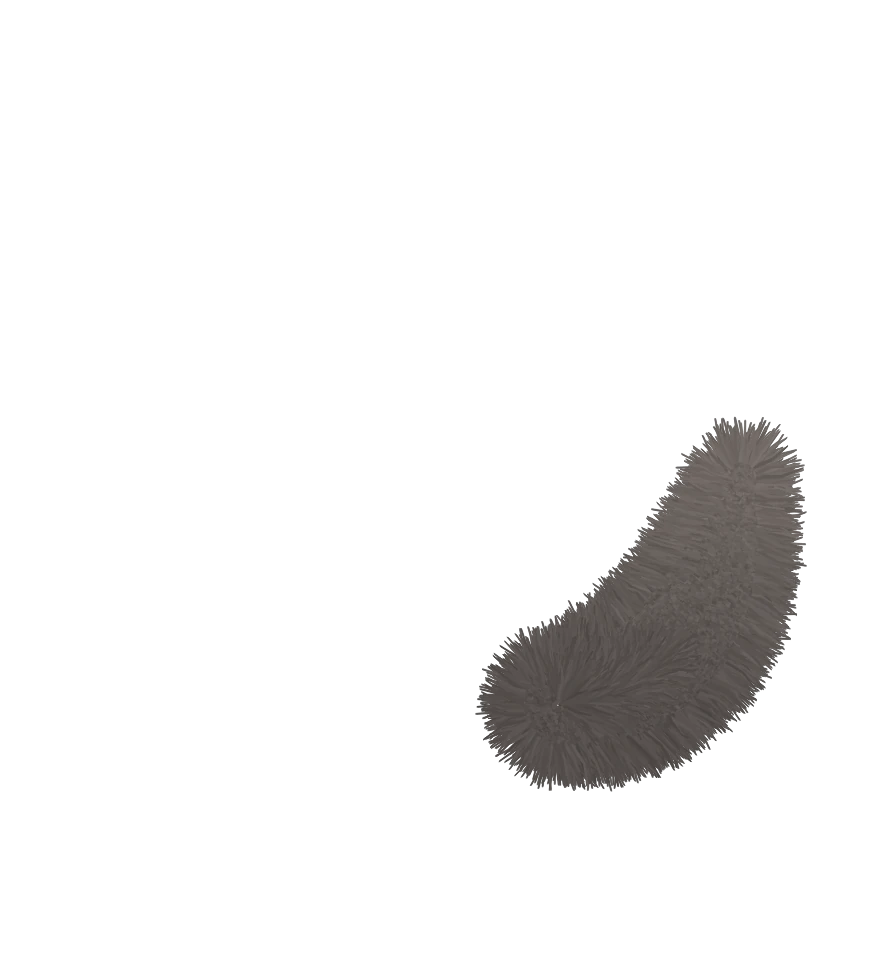
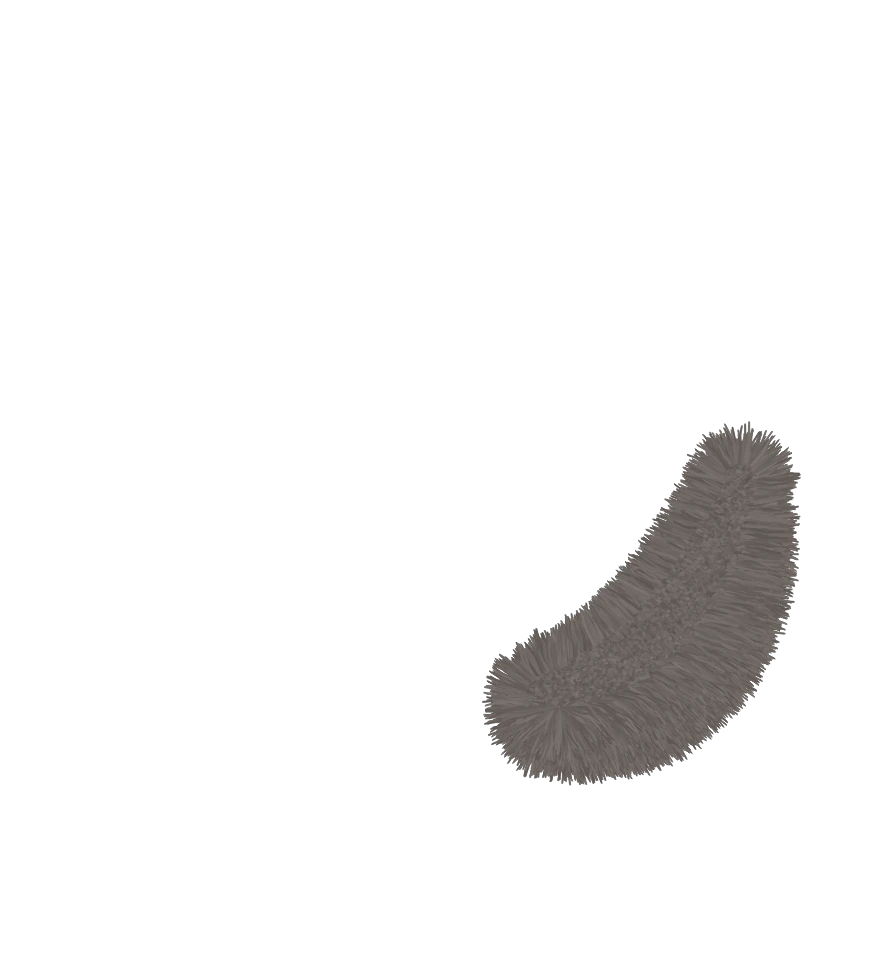
Playground: Ana keeps her real face, ears and markings; fur strokes follow the fur direction read from the photo
Claude-Session: https://claude.ai/code/session_01W4x6f7KtFbhsBZfqVxHVQA

diff --git a/william/tpl.html b/william/tpl.html
@@ -715,7 +715,7 @@ XMLHttpRequest.prototype.open = function (m, url, ...rest) { for (const k in MOC
 // 絵の座標（890×980）：足もと (370, 885)、首 (360, 440)、しっぽのつけ根 (560, 705)、目 (312, 306) (414, 308)、口 (360, 390)
 // 性格は食いしん坊：正解すると ごはんがもらえて もぐもぐ。空のときは ときどき ぺろっ、「ごはん まだ？」
 const ANA = { img: {}, n: 0, blinkAt: 0, lookT: -1e9, lickT: -1e9, nextLick: 0, eatT: -1e9, food: 0, taps: 0, wantT: -1e9, nextWant: 0 };
-if (PLAYGROUND) for (const [k, src] of Object.entries(__ANA__)) { const im = new Image(); im.onload = () => { ANA.img[k] = im; if (++ANA.n === 4) { ANA.blinkAt = performance.now() + 3000; ANA.nextLick = performance.now() + 12000; } }; im.src = src; }
+if (PLAYGROUND) for (const [k, src] of Object.entries(__ANA__)) { const im = new Image(); im.onload = () => { ANA.img[k] = im; if (++ANA.n === 3) { ANA.blinkAt = performance.now() + 3000; ANA.nextLick = performance.now() + 12000; } }; im.src = src; }
 function anaFeed() { if (!PLAYGROUND) return; const t = performance.now(); if (t - ANA.eatT < 5200) { ANA.food = 1; return; } ANA.food = 1; ANA.eatT = t + 700; ANA.lookT = t; }
 function anaSpot() {
 	if (stacked) { const p = IMG_PL.top, q = M(p.x + 70, p.y); return { x: q.x, y: q.y }; }  // スマホ：同じ台の右どなり
@@ -723,8 +723,8 @@ function anaSpot() {
 }
 function anaH() { return catH * (stacked ? 1.0 : 1.2); }
 function drawAna(t) {
-	if (ANA.n < 4) return; const I = ANA.img, c = ctx, sp = anaSpot(), h = anaH(), k = h / 790;
-	let lid = 0.08, mouth = 0, up = 0, dip = 0, lick = 0;
+	if (ANA.n < 3) return; const I = ANA.img, c = ctx, sp = anaSpot(), h = anaH(), k = h / 790;
+	let lid = 0, mouth = 0, up = 0, dip = 0, lick = 0;
 	const bk = (t - ANA.blinkAt) / 240; if (bk >= 0 && bk < 1) lid = Math.max(lid, Math.sin(bk * Math.PI)); else if (bk >= 1) ANA.blinkAt = t + 3000 + Math.random() * 4000;
 	const lk = (t - ANA.lookT) / 1600; if (lk >= 0 && lk < 1) { up = Math.sin(lk * Math.PI); lid *= 1 - up; }
 	const ek = (t - ANA.eatT) / 4500;
@@ -743,27 +743,16 @@ function drawAna(t) {
 	c.save(); c.translate(370, 885); c.scale(1 + br * 0.006, 1 + br * 0.01 - dip * 0.03); c.drawImage(I.body, -370, -885); c.restore();
 	// 頭（首を中心に かたむく・上を向く・おさらへ下げる）
 	c.save(); c.translate(360 - dip * 40, 440 - br * 3 - up * 10 + dip * 70 + chew * 5); c.rotate(sway * 0.035 - dip * 0.22); c.scale(1, 1 + up * 0.02); c.translate(-360, -440);
-	// 耳（頭のうしろ。つけ根を中心に ときどき ぴくっ。ごはん？のときは 立てる、食べるときは 少し寝かせる）
-	{ const tw = (t % 6100) / 260, a1 = tw < 1 ? Math.sin(tw * Math.PI) : 0, tw2 = ((t + 2700) % 8300) / 260, a2 = tw2 < 1 ? Math.sin(tw2 * Math.PI) : 0;
-	  for (const [sx, px, py, tw3] of [[-1, 275, 245, a1], [1, 448, 245, a2]]) { c.save(); c.translate(px, py); c.rotate(sx * (tw3 * 0.16 + dip * 0.12 - up * 0.06)); c.translate(-px, -py); c.beginPath(); c.rect(sx < 0 ? -200 : 360, -200, 560, 1180); c.clip(); c.drawImage(I.ears, sx * 6, -44); c.restore(); } }  /* 耳は 頭の毛の上に しっかり出す */
 	c.drawImage(I.head, 0, 0);
-	// 目：デザインした目（アーモンド形で 外がわが少し上がる。こはく色〜黄みどり、たて長のひとみ、ハイライト）。まぶたが上から下りる
-	for (const [sx, ex, ey] of [[-1, 311, 306], [1, 413, 308]]) {
-		c.save(); c.translate(ex, ey); c.rotate(sx * -0.05);
-		const shape = () => { c.beginPath(); c.moveTo(-sx * 30, 2); c.bezierCurveTo(-sx * 22, -26, sx * 16, -30, sx * 30, -4); c.bezierCurveTo(sx * 22, 24, -sx * 14, 26, -sx * 30, 2); c.closePath(); };  /* まるみのある アーモンド形 */
-		shape(); c.lineWidth = 5; c.strokeStyle = '#3a302b'; c.lineJoin = 'round'; c.stroke(); c.save(); c.clip();
-		const g = c.createRadialGradient(0, 0, 3, 0, 0, 30); g.addColorStop(0, '#b9c463'); g.addColorStop(0.45, '#d8b548'); g.addColorStop(1, '#a9761f'); c.fillStyle = g; c.fillRect(-34, -32, 68, 64);
-		c.fillStyle = '#17120f'; c.beginPath(); c.ellipse(0, -2, 11 + up * 3, 18, 0, 0, Math.PI * 2); c.fill();
-		c.fillStyle = 'rgba(255,255,255,.92)'; c.beginPath(); c.arc(-6, -8, 4.2, 0, Math.PI * 2); c.fill(); c.beginPath(); c.arc(6, 7, 1.8, 0, Math.PI * 2); c.fill();
-		const ly = -30 + lid * 58; c.fillStyle = '#efecea'; c.fillRect(-34, -30, 68, ly + 30); c.strokeStyle = '#3a302b'; c.lineWidth = 3; c.beginPath(); c.moveTo(-34, ly - 2); c.quadraticCurveTo(0, ly + 4, 34, ly - 2); c.stroke();
-		c.restore();
-		c.strokeStyle = '#3a302b'; c.lineWidth = 3.4; c.lineCap = 'round'; c.beginPath(); c.moveTo(-sx * 30, 2); c.bezierCurveTo(-sx * 22, -26, sx * 16, -30, sx * 30, -4); c.stroke();  // 上まぶたの線は 少し太く
-		c.restore();
+	// 目は 絵（写真の形）のまま。まばたきは まぶたを上から下ろす（まわりの毛の色）
+	if (lid > 0.03) for (const [ex, ey] of [[312, 306], [414, 308]]) {
+		c.save(); c.translate(ex, ey); c.beginPath(); c.ellipse(0, 0, 27, 21, 0, 0, Math.PI * 2); c.clip();
+		const ly = -21 + lid * 42; c.fillStyle = '#e6e2de'; c.fillRect(-28, -22, 56, ly + 22); c.strokeStyle = '#6a5f58'; c.lineWidth = 2.2; c.beginPath(); c.moveTo(-28, ly - 3); c.quadraticCurveTo(0, ly + 4, 28, ly - 3); c.stroke(); c.restore();
 	}
 	if (mouth > 0.08) { c.fillStyle = '#8a3a48'; c.beginPath(); c.ellipse(360, 396 + mouth * 5, 9 + mouth * 4, 2 + mouth * 9, 0, 0, Math.PI * 2); c.fill(); c.fillStyle = '#ee9aa6'; c.beginPath(); c.ellipse(360, 400 + mouth * 9, 6, 1 + mouth * 4, 0, 0, Math.PI * 2); c.fill(); }
 	else if (lick > 0.05) { c.fillStyle = '#ee9aa6'; c.strokeStyle = '#d27a88'; c.lineWidth = 1; c.beginPath(); c.moveTo(353, 392); c.quadraticCurveTo(351, 392 + lick * 16, 360, 393 + lick * 18); c.quadraticCurveTo(369, 392 + lick * 16, 367, 392); c.closePath(); c.fill(); c.stroke(); }
 	// ひげ
-	c.strokeStyle = 'rgba(255,255,255,.85)'; c.lineWidth = 1.3; c.lineCap = 'round';
+	c.strokeStyle = 'rgba(255,255,255,.8)'; c.lineWidth = 1.1; c.lineCap = 'round';
 	for (const sx of [-1, 1]) for (let i = 0; i < 4; i++) { c.beginPath(); c.moveTo(360 + sx * 36, 372 + i * 5); c.quadraticCurveTo(360 + sx * 120, 362 + i * 12, 360 + sx * (205 + i * 6), 352 + i * 24); c.stroke(); }
 	c.restore();
 	// ごはんのおさら（体の左まえ）
@@ -775,7 +764,7 @@ function drawAna(t) {
 	const wk = (t - ANA.wantT) / 3200; if (wk >= 0 && wk < 1) { const a = Math.min(1, wk * 6, (1 - wk) * 6); c.globalAlpha = a; c.fillStyle = 'rgba(255,255,255,.95)'; c.strokeStyle = '#2b2522'; c.lineWidth = 4; const bx = 470, by = 70; c.beginPath(); c.ellipse(bx, by, 150, 50, 0, 0, Math.PI * 2); c.fill(); c.stroke(); c.beginPath(); c.arc(bx - 60, by + 66, 11, 0, Math.PI * 2); c.fill(); c.stroke(); c.fillStyle = '#2b2522'; c.font = '500 40px "Kiwi Maru", sans-serif'; c.textAlign = 'center'; c.textBaseline = 'middle'; c.fillText('ごはん まだ？', bx, by + 2); c.globalAlpha = 1; }
 	c.restore();
 }
-function anaBox() { if (ANA.n < 4) return null; const sp = anaSpot(), h = anaH(); return { x: sp.x - h * 0.42, y: sp.y - h, w: h * 0.84, h }; }
+function anaBox() { if (ANA.n < 3) return null; const sp = anaSpot(), h = anaH(); return { x: sp.x - h * 0.42, y: sp.y - h, w: h * 0.84, h }; }
 W2D.motion = (g, i) => { const m = W2D.model; if (!m) return; const n = (m.internalModel.settings.motions[g] || []).length; if (n) m.motion(g, i ?? Math.floor(Math.random() * n), 3); };
 function applyParams(c) {
 	const P = W2D.P; if (!P) return;

diff --git a/william/ana/make_ana.py b/william/ana/make_ana.py
@@ -1,143 +1,106 @@
-# アナちゃんの一枚絵（細い毛で描いたイラスト）を作り、Live2D と同じ考え方で 部品（頭・体・しっぽ）に分ける
+# アナちゃんの一枚絵（細い毛で描いたイラスト）を作り、頭・体・しっぽの部品に分ける
 # 使い方: python3 william/ana/make_ana.py <切り抜いた写真 cut.png（正面で座っている写真、1620×1800、背景は透明）>
 #   出力: william/assets/ana_body.webp / ana_head.webp / ana_tail.webp（どれも 890×980、同じ座標）
-# しくみ：写真は そのまま使わない。写真からもらうのは「どこが どの色か」と「形」だけ。
-#   絵は、先の細い毛を 数万本、毛の流れ（顔は鼻から外へ、体は上から下へ）にそって 下の毛から順に重ねて描く。
-#   毛は輪郭の外へ はみ出すので、ふちは 長毛種らしい ふわふわの毛先になる。
+# 考え方（似せるために）：
+#   - 顔の形・模様の位置・目・鼻・口・耳は 写真の形を そのまま使う（作り物に置きかえない）。軽く なめらかにして 絵らしくするだけ
+#   - 毛は、写真から「その場所の毛の向き」を読み取り（明るさの変化の向き）、その向きに 先の細い毛を 1 本ずつ重ねて描く。色は その場所の写真の色
+#   - 毛は輪郭の外へ少し はみ出すので、ふちは 長毛種らしい毛先になる
 import sys, os, math
 import numpy as np, cv2
 HERE = os.path.dirname(os.path.abspath(__file__)); ROOT = os.path.dirname(os.path.dirname(HERE))
 SC = 0.5; PAD = 40
 rng = np.random.RandomState(11)
-src = cv2.imread(sys.argv[1], cv2.IMREAD_UNCHANGED)                      # BGRA 1620×1800
+src = cv2.imread(sys.argv[1], cv2.IMREAD_UNCHANGED)
 src = cv2.resize(src, None, fx=SC, fy=SC, interpolation=cv2.INTER_AREA)
 src = cv2.copyMakeBorder(src, PAD, PAD, PAD, PAD, cv2.BORDER_CONSTANT, value=(0, 0, 0, 0))
 H, W = src.shape[:2]
-P = lambda x, y: (x * SC + PAD, y * SC + PAD)                            # 写真の座標 → 絵の座標
-# --- 形：体の影（右の床）と うすい所を落として、いちばん大きい かたまりだけ残す ---
+P = lambda x, y: (x * SC + PAD, y * SC + PAD)
+yy, xx = np.mgrid[0:H, 0:W].astype(np.float32)
+NX, NY = P(640, 640)
+# --- 形（右の床の影を落とす） ---
 a = (src[..., 3] > 170).astype(np.uint8); a[:, int(P(1215, 0)[0]):] = 0
 n, lab, st, _ = cv2.connectedComponentsWithStats(a); a = (lab == 1 + np.argmax(st[1:, cv2.CC_STAT_AREA])).astype(np.uint8)
 a = cv2.morphologyEx(a, cv2.MORPH_OPEN, np.ones((5, 5), np.uint8))
-# --- 色：写真のざらつきを消して 明るくする（白い毛は ほぼ白、灰色は そのまま）。足りない外側は 近くの色でうめる ---
-ae = cv2.erode(a, np.ones((15, 15), np.uint8))                       # ふちの暗い色をさけて、内がわの色を外へ のばす
-bgr = cv2.inpaint(src[..., :3], (1 - ae) * 255, 5, cv2.INPAINT_TELEA)
-bgr = cv2.edgePreservingFilter(bgr, flags=1, sigma_s=30, sigma_r=0.35).astype(np.float32)
-bgr = 255 * (bgr / 255) ** 0.72 * 1.06
-hsv = cv2.cvtColor(bgr.clip(0, 255).astype(np.uint8), cv2.COLOR_BGR2HSV).astype(np.float32); hsv[..., 1] *= 1.15
+# --- 色：写真を 軽く なめらかにして 明るくする（模様や影は残す） ---
+ae = cv2.erode(a, np.ones((9, 9), np.uint8))
+raw = cv2.inpaint(src[..., :3], (1 - ae) * 255, 5, cv2.INPAINT_TELEA)
+col = cv2.edgePreservingFilter(raw, flags=1, sigma_s=10, sigma_r=0.18).astype(np.float32)
+col = 255 * (col / 255) ** 0.78 * 1.05
+hsv = cv2.cvtColor(col.clip(0, 255).astype(np.uint8), cv2.COLOR_BGR2HSV).astype(np.float32); hsv[..., 1] *= 1.12
 col = cv2.cvtColor(hsv.clip(0, 255).astype(np.uint8), cv2.COLOR_HSV2BGR).astype(np.float32)
-# 目は ページの側で デザインした目を描く（まばたきできるように）。写真の目は まわりの毛の色でうめる
-em = np.zeros((H, W), np.uint8)
-for (x, y) in [(545, 532), (748, 536)]: cv2.ellipse(em, tuple(int(v) for v in (x * SC + PAD, y * SC + PAD)), (34, 27), 0, 0, 360, 255, -1)
-col = cv2.inpaint(col.clip(0, 255).astype(np.uint8), em, 9, cv2.INPAINT_TELEA).astype(np.float32)
-# --- 部品の境目：頭（あごの線より上）と 体 ---
-NX, NY = P(640, 640)                                                     # 鼻
-yy, xx = np.mgrid[0:H, 0:W].astype(np.float32)
-chin = P(0, 790)[1] - 45 * ((xx - NX) / 180) ** 2                        # あご〜ほおの毛の下のふち
-skull = P(0, 372)[1] - 22 * np.cos(np.clip((xx - NX) / 150, -1.5, 1.5))          # 頭のてっぺんの線（写真の耳は 切り落とす）
-head_m = (a > 0) & (yy < chin) & (yy > skull)
+# --- 毛の向き：写真の明るさの変化から（構造テンソル）。向きの表裏は「鼻から外へ・上から下へ」に そろえる ---
+g = cv2.GaussianBlur(cv2.cvtColor(raw, cv2.COLOR_BGR2GRAY).astype(np.float32), (0, 0), 1.2)
+gx, gy = cv2.Sobel(g, cv2.CV_32F, 1, 0, ksize=3), cv2.Sobel(g, cv2.CV_32F, 0, 1, ksize=3)
+J11, J22, J12 = (cv2.GaussianBlur(v, (0, 0), 5) for v in (gx * gx, gy * gy, gx * gy))
+th = 0.5 * np.arctan2(2 * J12, J11 - J22) + np.pi / 2                    # 毛の向き（変化の向きと直角）
+coh = np.sqrt((J11 - J22) ** 2 + 4 * J12 ** 2) / (J11 + J22 + 1e-3)      # 向きの はっきり度 0〜1
+chin = P(0, 790)[1] - 45 * ((xx - NX) / 180) ** 2
+inhead = yy < chin
+pfx = np.where(inhead, xx - NX, (xx - NX) / 380.0); pfy = np.where(inhead, (yy - (NY - 20)) * 0.9 - 4, 1.0)
+cheek = inhead & (yy > NY - 10) & (np.abs(xx - NX) > 60); pfx = np.where(cheek, (xx - NX) * 0.012, pfx); pfy = np.where(cheek, 1.0, pfy)
+pn = np.hypot(pfx, pfy) + 1e-6; pfx, pfy = pfx / pn, pfy / pn
+vx, vy = np.cos(th), np.sin(th); flip = (vx * pfx + vy * pfy) < 0; vx, vy = np.where(flip, -vx, vx), np.where(flip, -vy, vy)
+k = np.clip(coh * 1.6, 0, 1) * 0.75                                       # はっきりしない所は きめた向きを多めに
+FX, FY = vx * k + pfx * (1 - k), vy * k + pfy * (1 - k)
+# --- 部品：頭（耳もふくむ）と 体 ---
+head_m = (a > 0) & inhead
 body_m = (a > 0) & (yy > chin - 34)
-# 顔の部品（目・鼻・口）には 毛をかけない
+# 顔の部品（目・鼻・口）は 写真の形のまま のせる（毛をかけない）
 feat = np.zeros((H, W), np.uint8)
-for (x, y, rx, ry) in [(640, 640, 40, 36)]:
+for (x, y, rx, ry) in [(545, 532, 56, 44), (748, 536, 56, 44), (640, 650, 50, 70)]:
     cv2.ellipse(feat, tuple(int(v) for v in P(x, y)), (int(rx * SC), int(ry * SC)), 0, 0, 360, 255, -1)
-feat = cv2.GaussianBlur(feat, (0, 0), 4)
+feat = cv2.GaussianBlur(feat, (0, 0), 5)
 
-def paint(mask, flow, order, n, length, width, base=True):
-    """mask の中に根もとをばらまいて、flow の向きへ 先の細い毛を引く。order が大きい毛から先に描く"""
+def paint(mask, n, length, width, color=None, flow=None):
     out = np.zeros((H, W, 4), np.float32)
-    if base:                                                             # 下ぬり（すきま防止）
-        k = cv2.GaussianBlur(mask.astype(np.float32), (0, 0), 1.2)[..., None]
-        out[..., :3] = col * k; out[..., 3:] = k
-    ys, xs = np.where(mask); idx = rng.randint(0, len(xs), n)
-    px, py = xs[idx].astype(np.float32), ys[idx].astype(np.float32)
-    o = order(px, py) + rng.rand(n) * 6; srt = np.argsort(-o)
-    layer = (out * 255).clip(0, 255).astype(np.uint8)
-    rgb = np.ascontiguousarray(layer[..., :3]); al = np.ascontiguousarray(layer[..., 3])
-    for i in srt:
-        x, y = px[i], py[i]
-        if feat[int(y), int(x)] > 90: continue
-        fx, fy = flow(x, y); ang = math.atan2(fy, fx) + (rng.rand() - 0.5) * 0.7
-        lum = col[int(y), int(x)].mean()
-        L = length(x, y) * (0.55 + rng.rand() * 0.9); w = width * (0.6 + rng.rand() * 0.7)
+    kk = cv2.GaussianBlur(mask.astype(np.float32), (0, 0), 1.2)[..., None]; C = col if color is None else color
+    out[..., :3] = C * kk; out[..., 3:] = kk
+    layer = (out * 255 / 255).clip(0, 255); rgb = np.ascontiguousarray(layer[..., :3].astype(np.uint8)); al = np.ascontiguousarray((layer[..., 3] * 255).clip(0, 255).astype(np.uint8))
+    ys, xs = np.where(mask); idx = rng.randint(0, len(xs), n); px, py = xs[idx], ys[idx]
+    for i in np.argsort(-(py + rng.rand(n) * 8)):                          # 下の毛から先に描く
+        x, y = int(px[i]), int(py[i])
+        if feat[y, x] > 110: continue
+        fx, fy = (FX[y, x], FY[y, x]) if flow is None else flow(x, y)
+        ang = math.atan2(fy, fx) + (rng.rand() - 0.5) * 0.35
+        L = length(x, y) * (0.6 + rng.rand() * 0.8); w = width * (0.6 + rng.rand() * 0.7)
         tx, ty = x + math.cos(ang) * L, y + math.sin(ang) * L
-        bend = (rng.rand() - 0.5) * 0.22 * L; mx, my = (x + tx) / 2 - math.sin(ang) * bend, (y + ty) / 2 + math.cos(ang) * bend
+        bend = (rng.rand() - 0.5) * 0.2 * L; mx, my = (x + tx) / 2 - math.sin(ang) * bend, (y + ty) / 2 + math.cos(ang) * bend
         nx, ny = -math.sin(ang) * w / 2, math.cos(ang) * w / 2
         pts = np.array([[x + nx, y + ny], [mx + nx * 0.6, my + ny * 0.6], [tx, ty], [mx - nx * 0.6, my - ny * 0.6], [x - nx, y - ny]]) * 8
-        # 1 本ごとに 明るさを少し変える（白い毛にも うすい影の毛を混ぜて、毛の 1 本 1 本が見えるように）
-        r = rng.rand(); k = 1.0 + (0.05 if r > 0.75 else -0.07 if r < 0.25 else (rng.rand() - 0.5) * 0.04)
-        c = col[int(y), int(x)] * k
-        if lum > 215 and r < 0.25: c = c * np.array([1.0, 0.985, 0.965])  # 白い毛の影は 少し青みのある灰色（BGR）
-        c = tuple(float(v) for v in c.clip(0, 255))
-        cv2.fillConvexPoly(rgb, pts.astype(np.int32), c, cv2.LINE_AA, 3); cv2.fillConvexPoly(al, pts.astype(np.int32), 255, cv2.LINE_AA, 3)
+        c = C[y, x] * (1 + (rng.rand() - 0.5) * 0.09)                      # 1 本ごとに 明るさを少し変える
+        cv2.fillConvexPoly(rgb, pts.astype(np.int32), tuple(float(v) for v in c.clip(0, 255)), cv2.LINE_AA, 3); cv2.fillConvexPoly(al, pts.astype(np.int32), 255, cv2.LINE_AA, 3)
     return np.dstack([rgb, al])
 
 def save(img, name):
     from PIL import Image
-    Image.fromarray(cv2.cvtColor(img, cv2.COLOR_BGRA2RGBA)).save(os.path.join(ROOT, 'william', 'assets', name), quality=90, method=6)
+    Image.fromarray(cv2.cvtColor(img, cv2.COLOR_BGRA2RGBA)).save(os.path.join(ROOT, 'william', 'assets', name), quality=92, method=6)
 
-# 体：毛は上から下へ、外へ少し広がる。胸は長い毛
-body = paint(body_m, lambda x, y: ((x - NX) / 380.0, 1.0), lambda x, y: y, 60000, lambda x, y: 50 if y < P(0, 1150)[1] else 34 if y < P(0, 1400)[1] else 12, 2.3)
-# 頭：毛は鼻から外へ。ほおの毛は下へ流れて長い。顔のまん中は短い
-def head_flow(x, y):
-    dx, dy = x - NX, y - (NY - 20)
-    if y > NY - 10 and abs(dx) > 60: return (dx * 0.012, 1.0)
-    return (dx, dy * 0.9 - 4)
-EARS = [P(445, 300), P(850, 300)]
-def head_len(x, y):
-    if min(math.hypot(x - e[0], y - e[1]) for e in EARS) < 48 and y < P(0, 400)[1]: return 7      # 耳は短い毛（形をくずさない）
-    d = math.hypot(x - NX, (y - NY) * 1.1)
-    return (8 + min(30, d * 0.16)) * (1.5 if y > NY and abs(x - NX) > 60 else 1)                  # ほおの毛は長い
-head = paint(head_m, head_flow, lambda x, y: np.hypot(x - NX, (y - NY) * 1.1) + np.where(y > NY, (y - NY) * 0.6, 0), 36000, head_len, 2.0)
-# 耳：べつの部品（頭のうしろに置く）。ノルウェージャンらしく 大きく、高い位置に、先に 長い毛（リンクスティップ）、中から 白い長い毛
-EAR = {-1: [(385, 420), (398, 190), (560, 345), (560, 420)], 1: [(735, 420), (735, 345), (892, 200), (912, 420)]}
-ears = np.zeros((H, W, 4), np.uint8); eb = np.ascontiguousarray(ears[..., :3]); ea = np.ascontiguousarray(ears[..., 3])
-for sx, poly in EAR.items():
-    pts = np.array([P(*q) for q in poly]); tip = pts[1] if sx < 0 else pts[2]
-    cv2.fillPoly(eb, [(pts * 8).astype(np.int32)], (128, 134, 142), cv2.LINE_AA, 3); cv2.fillPoly(ea, [(pts * 8).astype(np.int32)], 255, cv2.LINE_AA, 3)   # 外側：灰色
-    cen = pts.mean(axis=0); inner = cen + (pts - cen) * 0.68 + np.array([sx * 4, 10])
-    cv2.fillPoly(eb, [(inner * 8).astype(np.int32)], (196, 190, 226), cv2.LINE_AA, 3)                                                              # 内側：うすいピンク
-    for i in range(240):                                                                                                                           # 外側の短い毛
-        t = rng.rand(); q = pts[0] * (1 - t) + tip * t if rng.rand() < 0.5 else pts[-1] * (1 - t) + tip * t
-        q = q + (cen - q) * rng.uniform(0, 0.22); L = rng.uniform(5, 11); ang = math.atan2(tip[1] - cen[1], tip[0] - cen[0]) + rng.uniform(-0.6, 0.6)
-        g = rng.uniform(105, 150); l2 = np.array([q, q + [math.cos(ang) * L, math.sin(ang) * L]]) * 8
-        cv2.polylines(eb, [l2.astype(np.int32)], False, (g, g + 5, g + 12), 2, cv2.LINE_AA, 3); cv2.polylines(ea, [l2.astype(np.int32)], False, 255, 2, cv2.LINE_AA, 3)
-    for i in range(12):                                                                                                                            # 耳の先の長い毛
-        L = rng.uniform(16, 34); ang = math.radians(-90 + sx * rng.uniform(-4, 22)); q = tip + rng.uniform(-2, 2, 2)
-        l2 = np.array([q, q + [math.cos(ang) * L * 0.5 + sx * 2, math.sin(ang) * L * 0.5], q + [math.cos(ang) * L, math.sin(ang) * L]]) * 8
-        cv2.polylines(eb, [l2.astype(np.int32)], False, (86, 90, 98), 1, cv2.LINE_AA, 3); cv2.polylines(ea, [l2.astype(np.int32)], False, 255, 1, cv2.LINE_AA, 3)
-    for i in range(60):                                                                                                                            # 耳の中から 外へ流れる 白い長い毛
-        t = rng.uniform(0.15, 0.85); q = inner[0] * (1 - t) + inner[-1] * t + [0, -rng.uniform(0, 34)]; L = rng.uniform(26, 62); ang = math.radians(-90 + sx * rng.uniform(5, 70))
-        l2 = np.array([q, q + [math.cos(ang) * L * 0.5 + sx * 3, math.sin(ang) * L * 0.5], q + [math.cos(ang) * L, math.sin(ang) * L]]) * 8
-        cv2.polylines(eb, [l2.astype(np.int32)], False, (248, 250, 252), 1, cv2.LINE_AA, 3); cv2.polylines(ea, [l2.astype(np.int32)], False, 255, 1, cv2.LINE_AA, 3)
-ears = np.dstack([eb, ea])
-# 顔の部品は 写真の形のまま（なめらかにした色）を上にのせる
-k = (feat.astype(np.float32) / 255)[..., None]
-head[..., :3] = (head[..., :3] * (1 - k) + col * k).astype(np.uint8)
-# 口：鼻の下の たての線と、左右へ上がる口もと（写真の形）
-hb = np.ascontiguousarray(head[..., :3]); mc = (128, 120, 168)
-m0, m1 = P(640, 672), P(640, 700)
-cv2.line(hb, tuple(int(v * 8) for v in m0), tuple(int(v * 8) for v in m1), mc, 2, cv2.LINE_AA, 3)
-for sx in (-1, 1):
-    pts = np.array([P(640, 700), P(640 + sx * 14, 714), P(640 + sx * 30, 716), P(640 + sx * 50, 706)]) * 8
-    cv2.polylines(hb, [pts.astype(np.int32)], False, mc, 2, cv2.LINE_AA, 3)
+body = paint(body_m, 90000, lambda x, y: 22 if y < P(0, 1400)[1] else 10, 1.9)
+EARY = P(0, 400)[1]
+head = paint(head_m, 60000, lambda x, y: 6 if y < EARY and abs(x - NX) > 55 else (7 + min(16, math.hypot(x - NX, y - NY) * 0.09)), 1.6)
+# 目・鼻・口：写真の形のまま。少し くっきりさせて、目に ハイライト
+sharp = cv2.addWeighted(col, 1.5, cv2.GaussianBlur(col, (0, 0), 3), -0.5, 0).clip(0, 255)
+kf = (feat.astype(np.float32) / 255)[..., None]
+head[..., :3] = (head[..., :3] * (1 - kf) + sharp * kf).astype(np.uint8)
+hb = np.ascontiguousarray(head[..., :3])
+for (x, y) in [(535, 520), (738, 524)]:
+    cv2.circle(hb, tuple(int(v * 8) for v in P(x, y)), 4 * 8, (255, 255, 255), -1, cv2.LINE_AA, 3)
 head[..., :3] = hb
-# しっぽ：写真では 体の右うしろに こい灰色の ふさふさ。しんの線にそって 毛を外へ
-tail_m = np.zeros((H, W), bool); spine = []
+# しっぽ：写真では 体の右うしろに こい灰色の ふさふさ（写真では 影と重なって 切り抜けないので、しんの線にそって描く）
+tail_m = np.zeros((H, W), np.uint8); spine = []
 for s in np.linspace(0, 1, 200):
     u = 1 - s; x = u * u * 1040 + 2 * u * s * 1330 + s * s * 1400; y = u * u * 1330 + 2 * u * s * 1300 + s * s * 880
-    spine.append(P(x, y)); cv2.circle(tail_m.view(np.uint8), tuple(int(v) for v in P(x, y)), int((38 + 70 * math.sin(math.pi * min(1, 0.15 + s * 0.9)) ** 0.7) * SC), 1, -1)
+    spine.append(P(x, y)); cv2.circle(tail_m, tuple(int(v) for v in P(x, y)), int((38 + 70 * math.sin(math.pi * min(1, 0.15 + s * 0.9)) ** 0.7) * SC), 1, -1)
 spine = np.array(spine)
-tcol = col.copy(); g = (np.clip((yy - P(0, 880)[1]) / (P(0, 1330)[1] - P(0, 880)[1]), 0, 1))[..., None]
-col = np.array([92, 96, 104], np.float32) * (1 - g * 0.25) + rng.rand(H, W, 1).astype(np.float32) * 14   # こい灰色（BGR）。根もとは少し明るい
+tcol = np.zeros((H, W, 3), np.float32) + np.array([96, 100, 108], np.float32) + (rng.rand(H, W, 1).astype(np.float32) - 0.5) * 26
 def tail_flow(x, y):
     i = int(np.argmin((spine[:, 0] - x) ** 2 + (spine[:, 1] - y) ** 2)); j = min(len(spine) - 1, i + 3); tx, ty = spine[j] - spine[max(0, i - 3)]
     ox, oy = x - spine[i][0], y - spine[i][1]; return (tx * 0.6 + ox * 1.4, ty * 0.6 + oy * 1.4)
-tail = paint(tail_m, tail_flow, lambda x, y: -np.hypot(x - spine[100][0], y - spine[100][1]), 16000, lambda x, y: 34, 2.6)
-col = tcol
-save(body, 'ana_body.webp'); save(head, 'ana_head.webp'); save(tail, 'ana_tail.webp'); save(ears, 'ana_ears.webp')
+tail = paint(tail_m > 0, 22000, lambda x, y: 30, 2.0, color=tcol, flow=tail_flow)
+save(body, 'ana_body.webp'); save(head, 'ana_head.webp'); save(tail, 'ana_tail.webp')
 comp = np.zeros((H, W, 4), np.float32)
-for im in (tail, body, ears, head):
-    f = im.astype(np.float32); k = f[..., 3:] / 255; comp[..., :3] = comp[..., :3] * (1 - k) + f[..., :3] * k; comp[..., 3:] = np.maximum(comp[..., 3:], f[..., 3:])
-bgc = np.full((H, W, 3), (150, 170, 196), np.float32); k = comp[..., 3:] / 255
-cv2.imwrite(os.path.join(os.path.dirname(sys.argv[1]), 'ana_illust_preview.jpg'), (bgc * (1 - k) + comp[..., :3] * k).astype(np.uint8))
-print('ok', W, H, 'nose', NX, NY)
+for im in (tail, body, head):
+    f = im.astype(np.float32); k2 = f[..., 3:] / 255; comp[..., :3] = comp[..., :3] * (1 - k2) + f[..., :3] * k2; comp[..., 3:] = np.maximum(comp[..., 3:], f[..., 3:])
+bgc = np.full((H, W, 3), (150, 170, 196), np.float32); k2 = comp[..., 3:] / 255
+cv2.imwrite(os.path.join(os.path.dirname(sys.argv[1]), 'ana_illust_preview.jpg'), (bgc * (1 - k2) + comp[..., :3] * k2).astype(np.uint8))
+print('ok')

diff --git a/william/build.py b/william/build.py
@@ -78,7 +78,7 @@ def main():
             '<style>body{margin:0}img{max-width:100%}[hidden]{display:none!important}</style>\n')
     out = head + s[:i] + '\n</head>\n<body>\n' + s[i:] + '\n</body>\n</html>\n'
     # playground.html：試し中の機能（アナちゃん）を入れたページ。本番（index.html）には出さない
-    open(os.path.join(ROOT, 'public', 'playground.html'), 'w', encoding='utf-8').write(out.replace('__PLAY__', 'true').replace('__ANA__', json.dumps({k: data_uri('ana_' + k + '.webp') for k in ('body', 'head', 'tail', 'ears')})).replace('<title>', '<title>[playground] ', 1))
+    open(os.path.join(ROOT, 'public', 'playground.html'), 'w', encoding='utf-8').write(out.replace('__PLAY__', 'true').replace('__ANA__', json.dumps({k: data_uri('ana_' + k + '.webp') for k in ('body', 'head', 'tail')})).replace('<title>', '<title>[playground] ', 1))
     out = out.replace('__PLAY__', 'false').replace('__ANA__', '{}')
     open(os.path.join(ROOT, 'public', 'index.html'), 'w', encoding='utf-8').write(out)
     print('public/index.html', len(out) // 1024, 'KB')

diff --git a/william/ana/README.md b/william/ana/README.md
@@ -11,11 +11,9 @@
 本式の Live2D（moc3）にする場合の工程（See-through で部品分け → PSD → Cubism Editor）は、GMO の記事を参照：
 https://recruit.group.gmo/engineer/jisedai/blog/see-through-x-kaggle-x-claude-code/
 
-## デザインの決まり（animation-studio スキルの「新しいキャラクターの作り方」を当てはめた）
+## 似せるための方針（作り直して分かったこと）
 
-- 足もとを原点にして、うしろから順に描く：しっぽ → 体 → 耳 → 頭 → 目・口・ひげ → おさら
-- 部品ごとに 自分の動きを持たせる：しっぽ（つけ根で ふる）、耳（つけ根で ぴくっ）、頭（首で かたむく）、体（呼吸）
-- 表情は パラメータ：目の開き（まぶた）、ひとみの大きさ、口、舌
-- 猫（ノルウェージャン）らしさ：大きく 高い位置の耳と 先の長い毛、耳の中の白い毛、ほおと胸の長い毛、太いしっぽ、
-  まるみのあるアーモンド形の こはく色の目
-- 目は 写真の目を使わず デザインして描く（`drawAna`）。耳は べつの部品（`ana_ears.webp`）
+- 似ているかどうかは「顔の形・模様の位置・目つき」で決まる。ここを作り物（描いた目・作った耳・強くぼかした色）に置きかえると 別の猫になる
+- 目・鼻・口・耳・模様は 写真の形のまま使い、軽く なめらかにするだけ
+- 毛は 写真から「その場所の毛の向き」を読み取って、その向きに描く（きめた向きに描かない）
+- 部品は うしろから順に：しっぽ → 体 → 頭。まばたきは まぶたを上から下ろす
